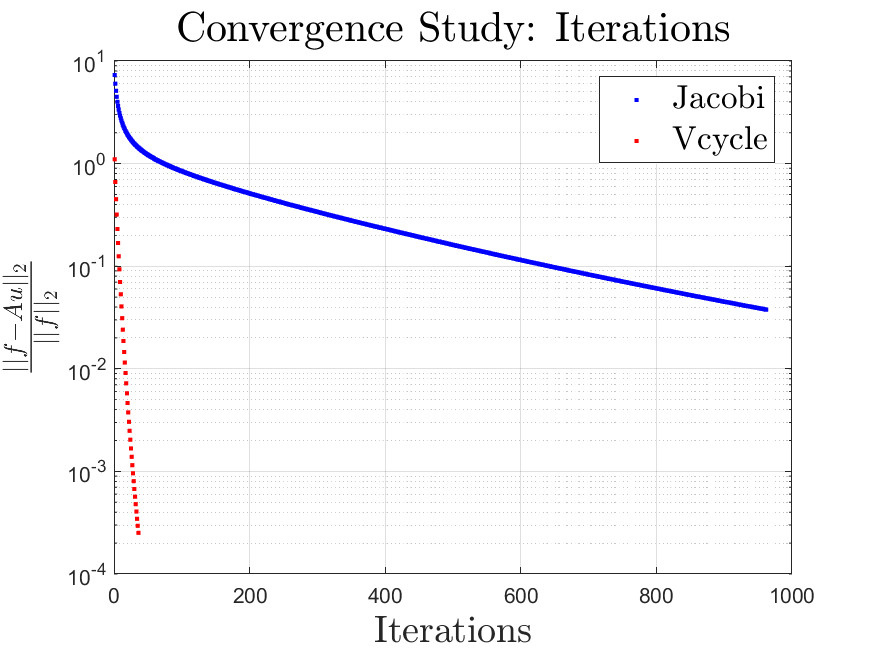
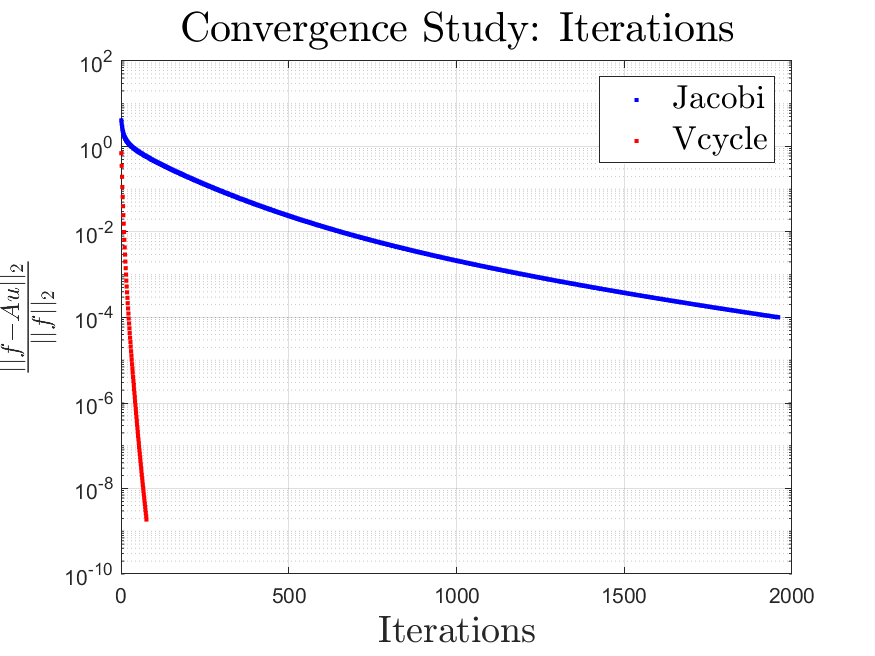
Matlab Vcycle implementation supports hyperrectangular domains

diff --git a/multigrid/dirichlet_3d/driver.m b/multigrid/dirichlet_3d/driver.m
@@ -2,8 +2,10 @@
 % This piece of code compares the Jacobi method with a multi-grid method
 % based on Jacobi iterations on increasingly coarser grids.
 %
-% This implementation is simplified and will only work for cubic domains of
-% size 2^l+1 where l is a positive integer.
+% This implementation assumes that the finest grid will always have an even
+% number of cells, or equivalently an odd number of grid points in each
+% dimension. This is only for easing the implementation of the
+% interpolation and restriction operations.
 %
 % Dirichlet boundary conditions are imposed on all boundary surfaces.
 %
@@ -37,8 +39,8 @@ len = pi;
 l = 4;
 
 % Number of cells in coarsest grid - must be odd
-n = 7;
-assert(mod(n,2) == 1,"Number of elements on coarsest grid must be odd")
+n = [5, 9, 7];
+assert(sum(mod(n,2) == 1) == 3,"Number of elements on coarsest grid must be odd")
 
 % number of cells in each dimension
 N = 2^l*(n-1)+1;
@@ -48,25 +50,25 @@ nsmooth = 20;
 
 % Maximal number of iterations
 max_iter = 2500;
-max_time = 60; % seconds
+max_time = 120; % seconds
 
 % Tolerance
 tol = 100*eps;
 
 % Axes
-x = linspace(x0,x0+len,N);
-y = linspace(y0,y0+len,N);
-z = linspace(z0,z0+len,N);
+x = linspace(x0,x0+len,N(1));
+y = linspace(y0,y0+len*(N(2)-1)/(N(1)-1),N(2));
+z = linspace(z0,z0+len*(N(3)-1)/(N(1)-1),N(3));
 
 % Creating mesh grid
-[X,Y,Z] = meshgrid(x',y',z');
+[X,Y,Z] = ndgrid(x',y',z');
 
 % The uniform grid spacing is given by
 h = x(2)-x(1);
 
 % Initializing the Dirichlet boaundary conditions
 u = ufun(X,Y,Z);
-u(2:end-1,2:end-1,2:end-1) = zeros(N-2,N-2,N-2);
+u(2:end-1,2:end-1,2:end-1) = zeros(N(1)-2,N(2)-2,N(3)-2);
 
 % Intializing the right hand side
 f = ffun(X,Y,Z);
@@ -121,7 +123,7 @@ end
 
 %% Plot of some slice of the solution
 
-plotidx = floor(N/2);
+plotidx = floor(N(3)/2);
 
 fig = figure('units','inch','position',[0,0,15,4]);
 subplot(1,3,1)

diff --git a/multigrid/dirichlet_3d/Vcycle.m b/multigrid/dirichlet_3d/Vcycle.m
@@ -12,12 +12,17 @@ function unew = Vcycle(unew,f,nsmooth,h,n,L,D,P,S)
 %   f: The right hand side. 3D matrix.
 %   nsmooth: The number of Jacobi iterations per grid. Scalar.
 %   h: The grid spacing. Scalar.
+%   n: The dimensions of the coarsest domain. 1 times 3 vector.
+%   L: The lower triangular matrix from the LDL' factorization. 2D matrix.
+%   D: The diagonal matrix from the LDL' factorization. 2D matrix.
+%   P: Mermutation matrix from the LDL' factorization. 2D matrix.
+%   S: The substitution matrix from the LDL' factorization. 2D matrix.
 %
 % Outputs:
 %   A: An approximation of the Laplacian of the solution iterate u. The
 %   residuals of Au=f may be computed ad r = f-Au.
 %
-% See also: JACOBI, RESIDUAL, RESTRICT, INTERPOLATE
+% See also: JACOBI, RESIDUAL, RESTRICT, INTERPOLATE, EXACT
 %
 % Author: Anton Rydahl
 % Richard Petersens Plads, bygn. 324 2800 Kgs. Lyngby
@@ -25,8 +30,8 @@ function unew = Vcycle(unew,f,nsmooth,h,n,L,D,P,S)
 % 28th of October 2022
     assert(h > 0,"Grid spacing must be positive");
     assert(nsmooth > 0,"Number of Jacobi iterations must be at least one")
-    if(size(unew,1) == n)
-        unew = exact(f,h,L,D,P,S);
+    if (size(unew,1) == n(1)) && (size(unew,2) == n(2)) && (size(unew,3) == n(3))
+        unew = exact(f,L,D,P,S);
         return;
     end
 

diff --git a/multigrid/dirichlet_3d/exact.m b/multigrid/dirichlet_3d/exact.m
@@ -1,7 +1,29 @@
-function u = exact(f,h,L,D,P,S)
-    n = size(f,1);
-    A = system_matrix(n,h);
+function u = exact(f,L,D,P,S)
+%EXACT
+% This function computes the exact solution to \Delta u = f. This routine
+% takes a precomputed LDL' factorization as input. It can be computed by
+% [L,D,P,S]=ldl(A) where A is the system matrix.
+%
+% Syntax: u = exact(f,L,D,P,S)
+%
+% Inputs:
+%   f: The right hand side. 3D matrix.
+%   L: The lower triangular matrix from the LDL' factorization. 2D matrix.
+%   D: The diagonal matrix from the LDL' factorization. 2D matrix.
+%   P: Mermutation matrix from the LDL' factorization. 2D matrix.
+%   S: The substitution matrix from the LDL' factorization. 2D matrix.
+%
+% Outputs:
+%   u: The exact solution.
+%
+% See also: ldl
+%
+% Author: Anton Rydahl
+% Richard Petersens Plads, bygn. 324 2800 Kgs. Lyngby
+% email: rydahlanton@gmail.com
+% 31st of October 2022
+    N = size(f);
     f = reshape(f,[],1);
     u=S*P*(L'\(D\(L\((P'*S)*f))));
-    u = reshape(u,[n,n,n]);
+    u = reshape(u,N);
 end

diff --git a/multigrid/dirichlet_3d/system_matrix.m b/multigrid/dirichlet_3d/system_matrix.m
@@ -1,27 +1,28 @@
-function A = system_matrix(n,h)
-e = ones(n,n,n)/h^2;
+function A = system_matrix(N,h)
+e = ones(N(1),N(2),N(3))/h^2;
 
 b = e;
 
 a = -6*e;
 
 a(:,:,1) = 1;
-a(:,:,n) = 1;
+a(:,:,N(3)) = 1;
 a(:,1,:) = 1;
-a(:,n,:) = 1;
+a(:,N(2),:) = 1;
 a(1,:,:) = 1;
-a(n,:,:) = 1;
+a(N(1),:,:) = 1;
 b(:,:,1) = 0;
-b(:,:,n) = 0;
+b(:,:,N(3)) = 0;
 b(:,1,:) = 0;
-b(:,n,:) = 0;
+b(:,N(2),:) = 0;
 b(1,:,:) = 0;
-b(n,:,:) = 0;
+b(N(1),:,:) = 0;
 
 b = b(:);
 a = a(:);
 
-A = spdiags([b([(n*n+1):end 1:n*n]) b([(n+1):end 1:n]) b([2:end 1]) a...
-    b([end 1:(end-1)]) b([(end-n+1):end 1:end-(n)]) b([(end-n*n+1):end 1:end-(n*n)])],[-n*n,-n,-1,0,1,n,n*n],n*n*n,n*n*n);
+A = spdiags([b([(N(1)*N(2)+1):end 1:N(1)*N(2)]) b([(N(1)+1):end 1:N(1)]) b([2:end 1]) a...
+    b([end 1:(end-1)]) b([(end-N(1)+1):end 1:end-N(1)]) b([(end-N(1)*N(2)+1):end 1:end-N(1)*N(2)])],...
+    [-N(1)*N(2),-N(1),-1,0,1,N(1),N(1)*N(2)],prod(N),prod(N));
 
 end

diff --git a/multigrid/dirichlet_3d/interpolate.m b/multigrid/dirichlet_3d/interpolate.m
@@ -16,10 +16,8 @@ function uf = interpolate(uc)
 % Richard Petersens Plads, bygn. 324 2800 Kgs. Lyngby
 % email: rydahlanton@gmail.com
 % 28th of October 2022
-    assert((size(uc,1) == size(uc,2)) && (size(uc,1) == size(uc,3)),...
-        "This function is only meant for cubic domains.")
-    n = size(uc,1);
-    uf = zeros(2*n-1,2*n-1,2*n-1);
+    N = size(uc);
+    uf = zeros(2*N(1)-1,2*N(2)-1,2*N(3)-1);
     uf(1:2:end,1:2:end,1:2:end) = uc;
     uf(2:2:end,:,:) = (uf(3:2:end,:,:) + uf(1:2:end-2,:,:))/2;
     uf(:,2:2:end,:) = (uf(:,3:2:end,:) + uf(:,1:2:end-2,:))/2;

diff --git a/multigrid/dirichlet_3d/README.md b/multigrid/dirichlet_3d/README.md
@@ -3,9 +3,7 @@ This project contains a Matlab implementation of a V-cycle multi-grid solver and
 $$
 \Delta u = f
 $$
-The setup is a bit simplified:
-- The solver only works for cubic, equidistant domains.
-- There are Dirichlet boundary considions on all surfaces.
+There are Dirichlet boundary considions imposed on all surfaces. It is assumed that the number of cells in each dimension is even, or equivalently that the number of lattices is odd.
 
 ## Test Problem
 We may consider some trigonometric function
